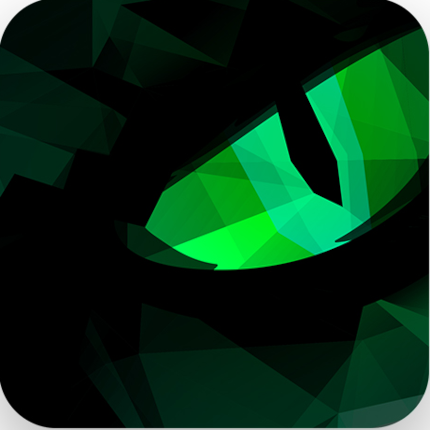
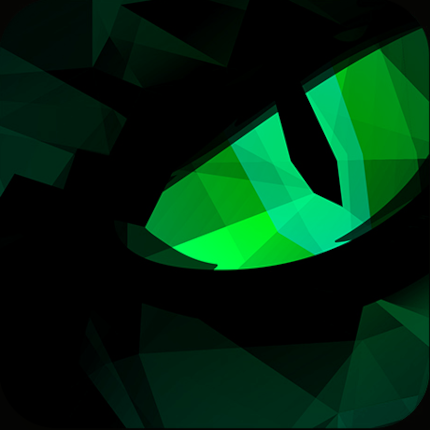
More about Dan Hamernik

Changed region(s): [[0.0, 0.0, 1.0, 1.0], [0.0, 0.0, 0.0907, 0.0907]]

diff --git a/blog/tests/ImagesTest.php b/blog/tests/ImagesTest.php
@@ -32,7 +32,7 @@ class ImagesTest extends AbstractBlogTest
         }
         foreach ($imagesWithInvalidVersion as $imageWithInvalidVersion) {
             ['version' => $version, 'fullPath' => $imageFullPath, 'link' => $imageLink] = $imageWithInvalidVersion;
-            $errorMessages[] = sprintf("Missing version for image %s, expected\n%s", $imageLink, $version ? '' : $this->getExpectedVersionHint($imageFullPath));
+            $errorMessages[] = sprintf("Invalid version for image %s, expected\n%s", $imageLink, $this->getExpectedVersionHint($imageFullPath));
         }
         self::assertCount(
             0,

diff --git a/blog/source/_posts/2020/2020-07-14-ilustratori-udernik-dan-hamernik.md b/blog/source/_posts/2020/2020-07-14-ilustratori-udernik-dan-hamernik.md
@@ -91,12 +91,30 @@ Ovšem jedna drobnost i v samotném oku překážela - když jsem ho přiblíži
 
 Poprosil jsem Dana, aby se zaměřil jen na oko samotné a trochu ho "zještěřil". Žádné bělmo, žádná duhovka a panenku jen jako úzký proužek. Tak jako každý slušně vychovaný [krokodýl](https://i.pinimg.com/originals/92/96/4c/92964c159285445dd578d321afb17b81.jpg).
 
-*Přitom jsem zjistil, že někteří plazi skutečně mají kulatou panenku - a to [denní plazi](https://www.abicko.cz/clanek/precti-si-priroda/21054/ocima-hada-tajemstvi-hadich-smyslu.html).*
+*Přitom jsem zjistil, že někteří plazi skutečně mají kulatou panenku - a to [denní plazi](https://www.abicko.cz/clanek/precti-si-priroda/21054/ocima-hada-tajemstvi-hadich-smyslu.html). Ale i tak jsem pořád chtěl tu známnější úzkou verzi*
 
 ---
 
 Po dvou týdnech mi do mailu přistála předělávka ve třech barevných provedeních.
 
 *30. 9. 2019*
-![čtvrtý návrh oka červeně](/assets/images/posts/ilustratori_udernik_dan_hamernik/ctvrte_oko_cervene_original_size.png?version=3d56b4b9c2f33ca8cc66df087d43f5a1) ![čtvrtý návrh oka modře](/assets/images/posts/ilustratori_udernik_dan_hamernik/ctvrte_oko_modre_original_size.png?version=1c62e3da248f396912cf24c6be8f270b) ![čtvrtý návrh oka zeleně](/assets/images/posts/ilustratori_udernik_dan_hamernik/ctvrte_oko_zelene_original_size.png?version=e5152f51be2086e145c77766ba67aed1)
+![čtvrtý návrh oka červeně](/assets/images/posts/ilustratori_udernik_dan_hamernik/ctvrte_oko_cervene_original_size.png?version=3d56b4b9c2f33ca8cc66df087d43f5a1) ![čtvrtý návrh oka modře](/assets/images/posts/ilustratori_udernik_dan_hamernik/ctvrte_oko_modre_original_size.png?version=1c62e3da248f396912cf24c6be8f270b) ![čtvrtý návrh oka zeleně](/assets/images/posts/ilustratori_udernik_dan_hamernik/ctvrte_oko_zelene_original_size.png?version=fc6823615ab87c63c6f5733286478ac2)
 
+*Tady musím Danovi poděkovat, že mi poslal více barevných návrhů. Jasně, co je na tom chtít jinou barvu, jenže... Právě že nejdříve nás musí napadnout, že to vůbec můžeme chtít. Kdyby Dan neposlal více barev, asi bych o nich ani nepřemýšlel.*
+
+Dan oko přiblížil, bělmo obarvil, panenku zůžil a začernil. A hlavně to celé předělal do úhelníků. Trojúhelníky, mimoběžníky, mnohoúhelníky... Přesně jak jsem chtěl. Tahle změna se Danovi povedla na jedničku.
+
+A díky varevným variacím jsem mohl popřemýšlet i o pocitech, které barevný nádech navozoval. Po koketování s červenou jsem nakonec vybral zelenou verzi. Po zmenšení na malou ikonku vypadal nejlépe. A taky mám zelenou rád.
+
+Začínali jsme se blížit k finále.
+
+A já se začal štourat do detailů. "Střepy", ze kterých bylo oko složené, byly vlastně z přímek. Chtěl jsem něco přítodnějšího, jako kdyby to byly poskládané drahokamy ve šperku, s náhodnější strukturou. A uříznuté oko zprava mě rušilo, chtěl jsem jeho pravou část zakrytou přirozeně, stínem. A taky mi přišlo, že té tmavé plochy je tam hodně a na oko už moc místa nezbylo.
+
+Ale už jsme byli příliš daleko, abychom tohle všechno měnili. Už mi mělo naplno dojít, že kreslíři a grafici jsou dvě odlišné profese.
+
+---
+
+Dan se zasnažil. Pravou část ukryl do stínů a celkově logo krapet zesvětlil. Ale na "různé střepy" nereagoval. Už to bylo prostě moc.
+
+*3. 11. 2019*
+![zelené oko se stínem](/assets/images/posts/ilustratori_udernik_dan_hamernik/zelene_draci_oko_se_stinem_original_size.png)
